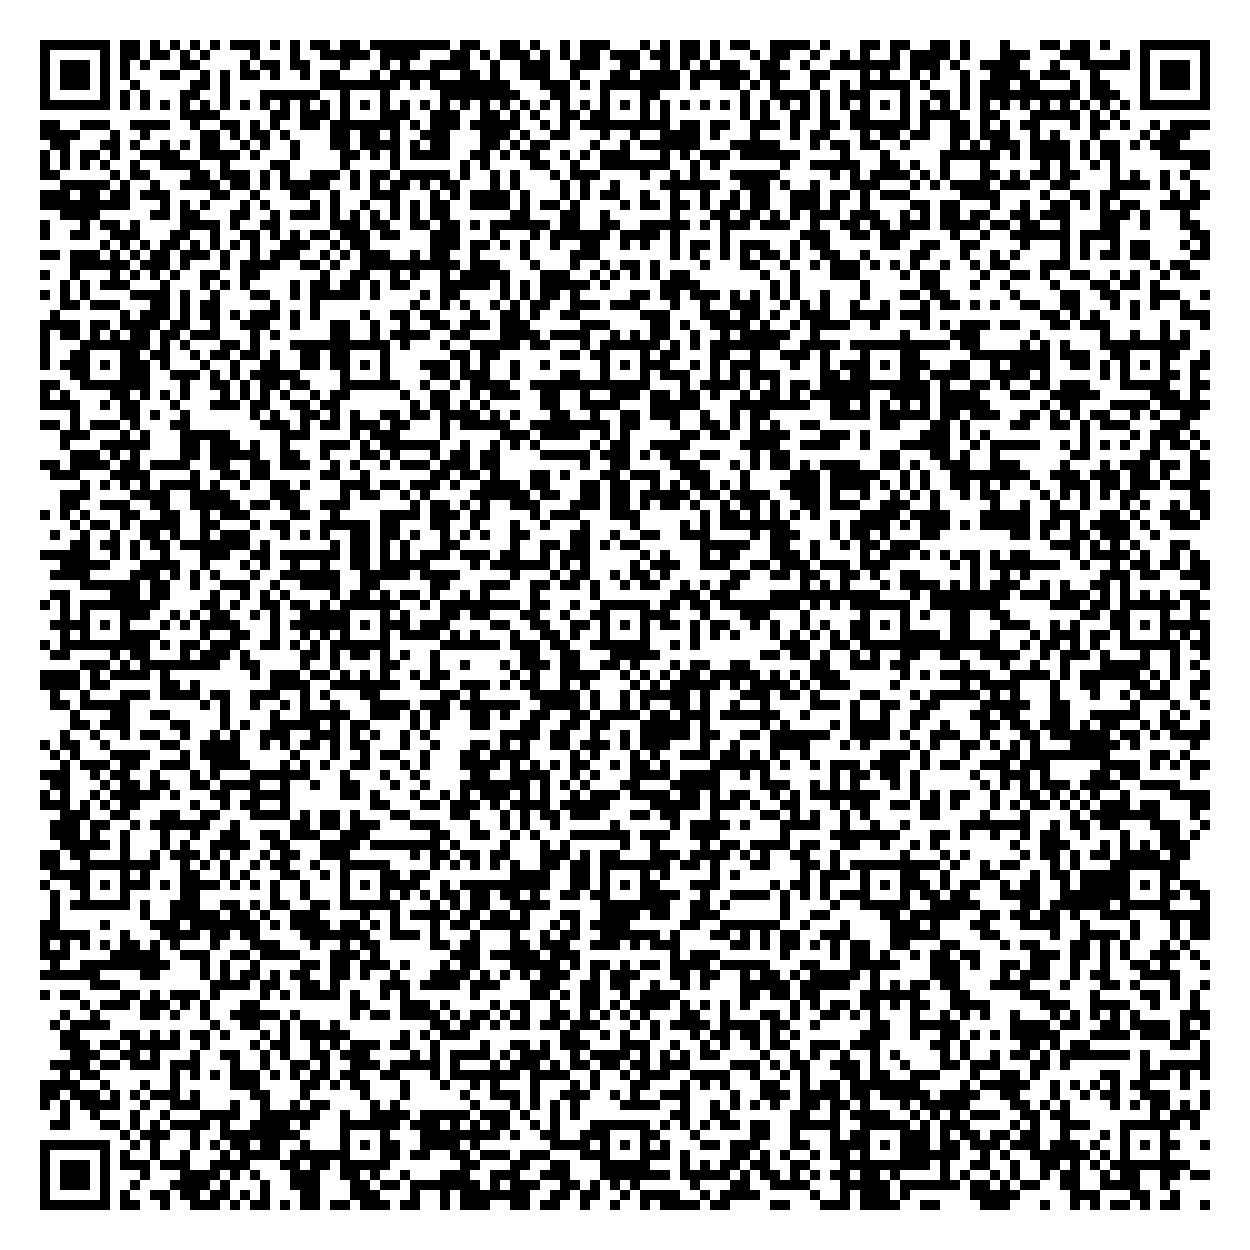
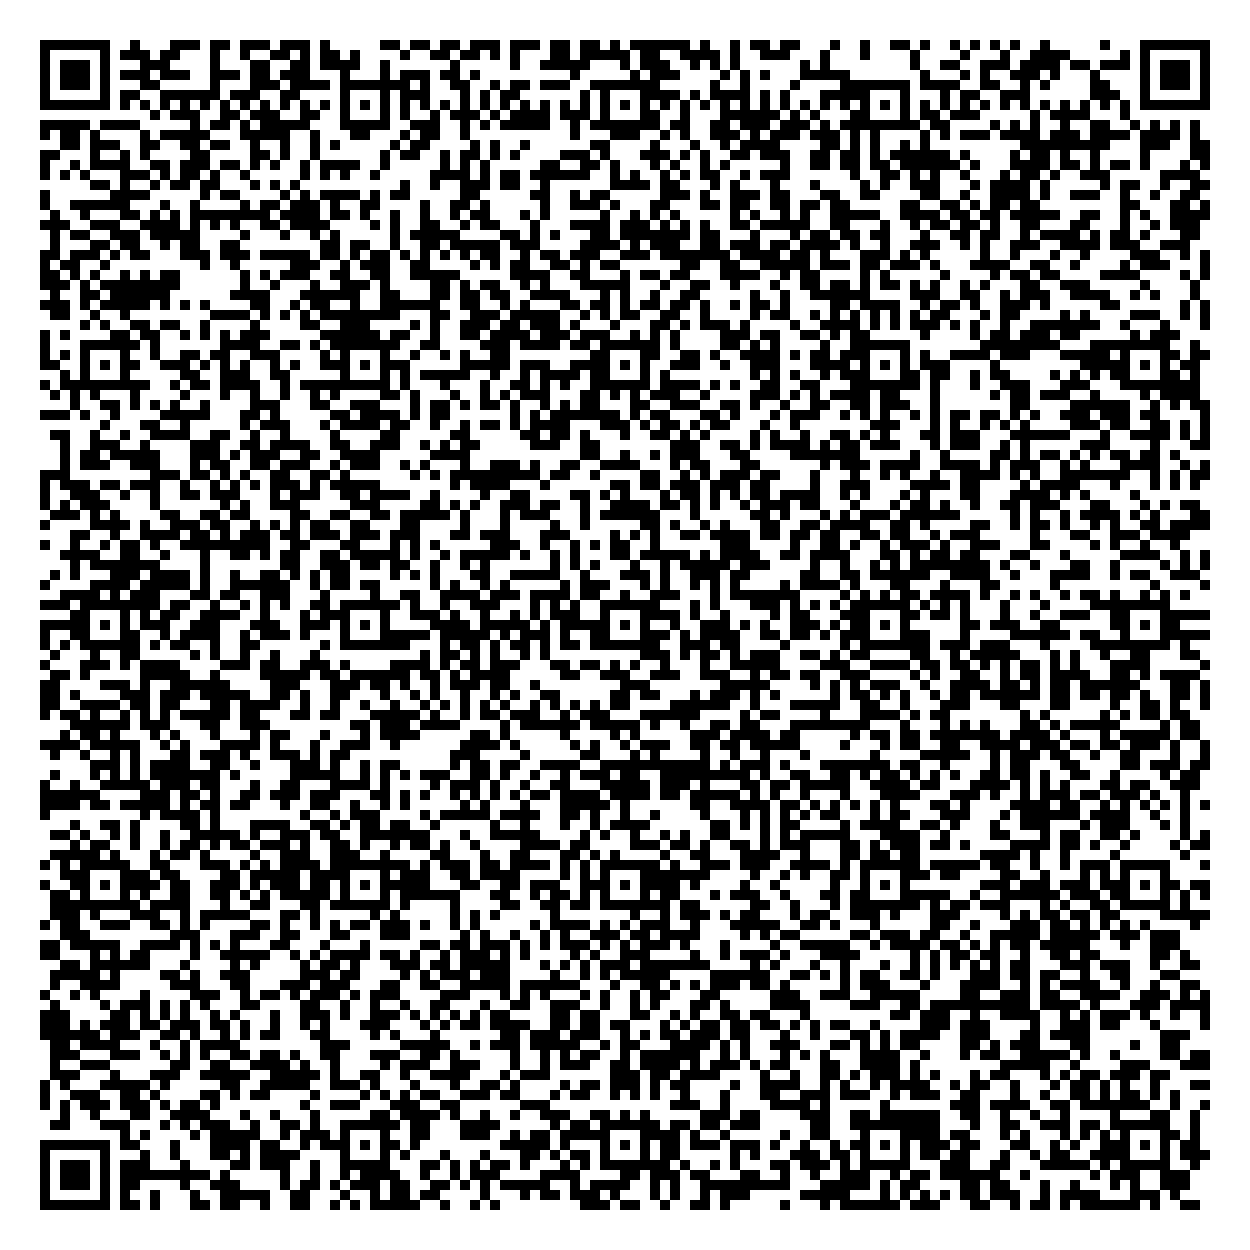
scanning works but encryption or/and decryption are bugged

diff --git a/static/js/scan.js b/static/js/scan.js
@@ -2,7 +2,6 @@ document.getElementById('qr-form').addEventListener('submit', function(event) {
     event.preventDefault();
     const fileInput = document.getElementById('qr-file');
     const file = fileInput.files[0];
-
     if (file) {
         const reader = new FileReader();
         reader.onload = function(e) {
@@ -17,63 +16,36 @@ document.getElementById('qr-form').addEventListener('submit', function(event) {
                 const context = canvas.getContext('2d');
                 context.drawImage(image, 0, 0);
                 const imageData = context.getImageData(0, 0, canvas.width, canvas.height);
+                console.log(`Image data: width=${imageData.width}, height=${imageData.height}`);  // Debug statement
 
-                // Log image data to ensure it is being created correctly
-                console.log(`Image data: width=${imageData.width}, height=${imageData.height}`);
+                const code = jsQR(imageData.data, canvas.width, canvas.height);
+                if (code) {
+                    const qrData = code.binaryData;  // Use binaryData to get raw bytes
+                    console.log("Extracted QR Data (raw bytes):", qrData);  // Debug statement
 
-                Quagga.decodeSingle({
-                    src: e.target.result,
-                    numOfWorkers: 0,  // Needs to be 0 when used within node
-                    inputStream: {
-                        size: 800  // restrict input-size to be 800px in width (long-side)
-                    },
-                    decoder: {
-                        readers: ["qr_reader"]  // List of active readers
-                    },
-                    locate: true
-                }, function(result) {
-                    if (result && result.codeResult) {
-                        const qrData = result.codeResult.code;
-                        console.log("Extracted QR Data:", qrData);  // Debug statement
-
-                        if (qrData) {
-                            // Convert the QR data to a Uint8Array to handle raw bytes
-                            const qrBytes = new TextEncoder().encode(qrData);
-                            console.log("QR Data as bytes:", qrBytes);  // Debug statement
-
-                            // Send the raw bytes to the server for decryption
-                            fetch('/decode_qr', {
-                                method: 'POST',
-                                headers: {
-                                    'Content-Type': 'application/octet-stream'
-                                },
-                                body: qrBytes
-                            })
-                            .then(response => response.json())
-                            .then(data => {
-                                document.getElementById('qr-result').textContent = `Decoded Data: ${data.decryptedData}`;
-                            })
-                            .catch(error => {
-                                console.error('Error decoding QR code:', error);  // Debug statement
-                                document.getElementById('qr-result').textContent = 'Error decoding QR code.';
-                            });
-                        } else {
-                            console.error("QR Data is empty!");  // Debug statement
-                            document.getElementById('qr-result').textContent = 'QR Data is empty!';
-                        }
-                    } else {
-                        console.error("No QR code found or error in decoding.");  // Debug statement
-                        document.getElementById('qr-result').textContent = 'No QR code found.';
-                    }
-                });
+                    fetch('/decode_qr', {
+                        method: 'POST',
+                        headers: {
+                            'Content-Type': 'application/octet-stream'
+                        },
+                        body: new Uint8Array(qrData)
+                    })
+                    .then(response => response.json())
+                    .then(data => {
+                        document.getElementById('qr-result').textContent = `Decoded Data: ${data.decryptedData}`;
+                    })
+                    .catch(error => {
+                        console.error('Error decoding QR code:', error);
+                        document.getElementById('qr-result').textContent = 'Error decoding QR code.';
+                    });
+                } else {
+                    document.getElementById('qr-result').textContent = 'No QR code found.';
+                }
             };
-
             image.src = e.target.result;
         };
-
         reader.readAsDataURL(file);
     } else {
-        console.error("No file selected.");  // Debug statement
         document.getElementById('qr-result').textContent = 'No file selected.';
     }
 });

diff --git a/templates/scan.html b/templates/scan.html
@@ -7,6 +7,6 @@
         <button type="submit">Scan</button>
     </form>
     <p id="qr-result"></p>
-    <script src="https://cdn.jsdelivr.net/npm/jsqr/dist/jsQR.js"></script> <!-- Add jsQR library -->
+    <script src="https://cdn.jsdelivr.net/npm/jsqr/dist/jsQR.js"></script>
     <script src="{{ url_for('static', filename='js/scan.js') }}"></script>
 {% endblock %}

diff --git a/app.py b/app.py
@@ -74,8 +74,7 @@ def account():
 def decode_qr():
     try:
         # Read the QR data from the request
-        data = request.get_json()
-        qr_data = data.get('qrData')
+        qr_data = request.data
 
         if not qr_data:
             return jsonify({'error': 'No QR data provided'}), 400
